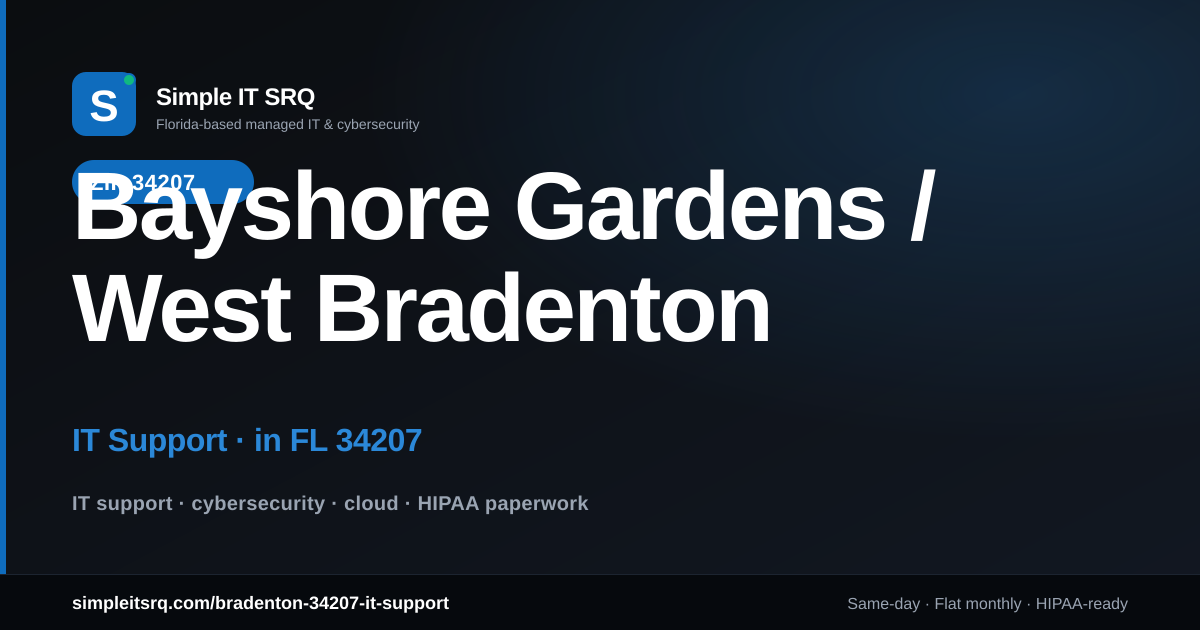
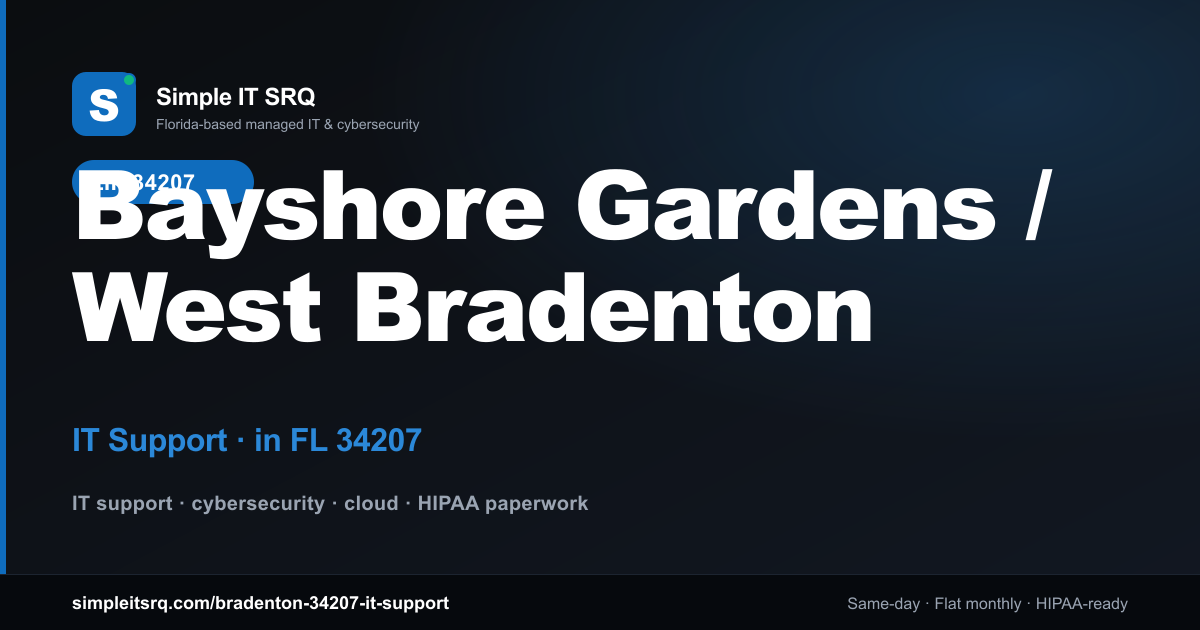
fix(csp): allow 'unsafe-inline' in style-src-elem for AI chat + Tawk.to styles
- Fixes CSP self-blocking: style-src-elem was missing 'unsafe-inline',
  which blocked the AIChat component's injected <style> tags and Tawk.to's
  dynamic styles, causing the chat bubble to collapse into a static element
  stuck at the bottom of the page.

- Polishes AIChat component:
  • Full dark-mode support via [data-theme="dark"] CSS overrides
  • Escape key and click-outside to close the panel
  • Focus returns to bubble button on close
  • Textarea height resets after sending a message
  • Respects prefers-reduced-motion

- Fixes 3 pre-existing lint errors (unused vars in portal.js, BlogPost.jsx,
  Book.jsx) so the build stays clean.

- Regenerates OG images as part of the standard prebuild step.

diff --git a/src/components/AIChat.jsx b/src/components/AIChat.jsx
@@ -1,4 +1,4 @@
-import { useEffect, useMemo, useRef, useState } from "react";
+import { useEffect, useMemo, useRef, useState, useCallback } from "react";
 import { Sparkles, ArrowUp, X, Mail, RotateCcw, CornerDownLeft } from "lucide-react";
 import { csrfFetch } from "../lib/csrf";
 
@@ -165,6 +165,8 @@ export default function AIChat() {
   const [emailValue, setEmailValue] = useState("");
   const scrollRef = useRef(null);
   const inputRef = useRef(null);
+  const panelRef = useRef(null);
+  const bubbleRef = useRef(null);
 
   useEffect(() => { saveHistory(messages); }, [messages]);
 
@@ -181,6 +183,37 @@ export default function AIChat() {
     }
   }, [open, emailMode]);
 
+  // Keyboard / click-outside handlers.
+  useEffect(() => {
+    if (!open) return;
+
+    function onKeyDown(e) {
+      if (e.key === "Escape") {
+        setOpen(false);
+      }
+    }
+
+    function onPointerDown(e) {
+      if (panelRef.current && !panelRef.current.contains(e.target)) {
+        setOpen(false);
+      }
+    }
+
+    document.addEventListener("keydown", onKeyDown);
+    document.addEventListener("pointerdown", onPointerDown);
+    return () => {
+      document.removeEventListener("keydown", onKeyDown);
+      document.removeEventListener("pointerdown", onPointerDown);
+    };
+  }, [open]);
+
+  // Return focus to bubble when closing.
+  useEffect(() => {
+    if (!open && bubbleRef.current) {
+      bubbleRef.current.focus();
+    }
+  }, [open]);
+
   // Auto-grow textarea up to ~6 lines (144px).
   useEffect(() => {
     const el = inputRef.current;
@@ -196,6 +229,12 @@ export default function AIChat() {
     setMessages(next);
     setInput("");
     setBusy(true);
+
+    // Reset textarea height.
+    if (inputRef.current) {
+      inputRef.current.style.height = "auto";
+    }
+
     try {
       const res = await csrfFetch("/api/contact", {
         method: "POST",
@@ -255,12 +294,12 @@ export default function AIChat() {
     try { sessionStorage.removeItem(STORAGE_KEY); } catch { /* ignore */ }
   }
 
-  const onKeyDown = (e) => {
+  const onKeyDown = useCallback((e) => {
     if (e.key === "Enter" && !e.shiftKey) {
       e.preventDefault();
       send();
     }
-  };
+  }, [input, busy, messages]);
 
   // Pre-compute rendered HTML for assistant messages so we don't re-parse on
   // every keystroke (typing in the composer triggers a re-render).
@@ -280,6 +319,7 @@ export default function AIChat() {
 
       {!open && (
         <button
+          ref={bubbleRef}
           type="button"
           onClick={() => setOpen(true)}
           aria-label="Open AI assistant"
@@ -290,7 +330,7 @@ export default function AIChat() {
       )}
 
       {open && (
-        <div role="dialog" aria-label="AI assistant" className="aic-panel">
+        <div ref={panelRef} role="dialog" aria-label="AI assistant" className="aic-panel">
           <header className="aic-header">
             <div className="aic-title">
               <span className="aic-dot" aria-hidden="true" />
@@ -453,6 +493,11 @@ const AIC_CSS = `
   transition: transform .15s ease, box-shadow .15s ease;
 }
 .aic-bubble:hover { transform: translateY(-2px); box-shadow: 0 12px 28px rgba(0,0,0,0.22); }
+[data-theme="dark"] .aic-bubble {
+  background: var(--surface-2, #1C1F26); color: var(--text-1, #F4F5F7); border-color: var(--border, #2A2F38);
+  box-shadow: 0 8px 22px rgba(0,0,0,0.35), 0 1px 2px rgba(0,0,0,0.20);
+}
+[data-theme="dark"] .aic-bubble:hover { box-shadow: 0 12px 28px rgba(0,0,0,0.45); }
 
 .aic-panel {
   position: fixed; left: 20px; bottom: var(--aic-bottom-offset); z-index: 999998;
@@ -466,6 +511,12 @@ const AIC_CSS = `
   font-family: -apple-system, BlinkMacSystemFont, "Segoe UI", "Inter", system-ui, sans-serif;
   color: #2f3437;
 }
+[data-theme="dark"] .aic-panel {
+  background: var(--surface, #14171C);
+  border-color: var(--border, #2A2F38);
+  color: var(--text-2, #9AA0A6);
+  box-shadow: 0 30px 60px rgba(0,0,0,0.45), 0 2px 6px rgba(0,0,0,0.25);
+}
 
 .aic-header {
   display: flex; align-items: center; justify-content: space-between;
@@ -474,6 +525,11 @@ const AIC_CSS = `
   background: rgba(250,249,246,0.85);
   backdrop-filter: saturate(180%) blur(6px);
 }
+[data-theme="dark"] .aic-header {
+  background: rgba(20,23,28,0.85);
+  border-color: var(--border, #2A2F38);
+}
+
 .aic-title { display: flex; align-items: center; gap: 8px; font-size: 0.86rem; }
 .aic-dot {
   width: 7px; height: 7px; border-radius: 50%;
@@ -481,7 +537,9 @@ const AIC_CSS = `
   box-shadow: 0 0 0 3px rgba(22,163,74,0.15);
 }
 .aic-title-text { font-weight: 600; color: #1f2328; letter-spacing: -0.01em; }
+[data-theme="dark"] .aic-title-text { color: var(--text-1, #F4F5F7); }
 .aic-subtitle { color: #8a8f98; font-size: 0.78rem; font-weight: 400; }
+[data-theme="dark"] .aic-subtitle { color: var(--text-3, #6B7280); }
 .aic-actions { display: flex; gap: 2px; }
 .aic-icon-btn {
   width: 28px; height: 28px; border-radius: 6px;
@@ -489,13 +547,17 @@ const AIC_CSS = `
   display: grid; place-items: center; transition: background .12s ease, color .12s ease;
 }
 .aic-icon-btn:hover { background: rgba(15,15,15,0.06); color: #1f2328; }
+[data-theme="dark"] .aic-icon-btn { color: var(--text-3, #6B7280); }
+[data-theme="dark"] .aic-icon-btn:hover { background: rgba(255,255,255,0.06); color: var(--text-1, #F4F5F7); }
 
 .aic-doc {
   flex: 1; overflow-y: auto;
   scrollbar-width: thin; scrollbar-color: rgba(15,15,15,0.18) transparent;
 }
+[data-theme="dark"] .aic-doc { scrollbar-color: rgba(255,255,255,0.12) transparent; }
 .aic-doc::-webkit-scrollbar { width: 8px; }
 .aic-doc::-webkit-scrollbar-thumb { background: rgba(15,15,15,0.18); border-radius: 4px; }
+[data-theme="dark"] .aic-doc::-webkit-scrollbar-thumb { background: rgba(255,255,255,0.12); }
 .aic-doc-inner { padding: 6px 0 14px; }
 
 .aic-block {
@@ -504,6 +566,7 @@ const AIC_CSS = `
 }
 .aic-block:last-child { border-bottom: none; }
 .aic-block-user { background: rgba(15,15,15,0.025); }
+[data-theme="dark"] .aic-block-user { background: rgba(255,255,255,0.03); }
 .aic-block-asst { background: transparent; }
 
 .aic-role {
@@ -511,11 +574,14 @@ const AIC_CSS = `
   text-transform: uppercase; letter-spacing: 0.08em;
   color: #8a8f98; margin-bottom: 4px;
 }
+[data-theme="dark"] .aic-role { color: var(--text-3, #6B7280); }
 .aic-user-content {
   font-size: 0.92rem; line-height: 1.55; color: #1f2328;
   white-space: pre-wrap; word-break: break-word;
 }
+[data-theme="dark"] .aic-user-content { color: var(--text-1, #F4F5F7); }
 .aic-asst-content { font-size: 0.92rem; line-height: 1.6; color: #2f3437; }
+[data-theme="dark"] .aic-asst-content { color: var(--text-2, #9AA0A6); }
 .aic-asst-content > *:first-child { margin-top: 0; }
 .aic-asst-content > *:last-child { margin-bottom: 0; }
 
@@ -527,12 +593,21 @@ const AIC_CSS = `
   border-left: 3px solid #c9c4b8; color: #4b5057; font-style: italic;
   background: rgba(15,15,15,0.02);
 }
+[data-theme="dark"] .aic-quote {
+  border-left-color: var(--border-strong, #3A404A);
+  color: var(--text-2, #9AA0A6);
+  background: rgba(255,255,255,0.03);
+}
 .aic-code {
   font-family: "SF Mono", "JetBrains Mono", ui-monospace, "Cascadia Code", Menlo, monospace;
   font-size: 0.85em;
   background: rgba(135, 131, 120, 0.15);
   color: #b03d4d;
   padding: 1px 5px; border-radius: 4px;
+}
+[data-theme="dark"] .aic-code {
+  background: rgba(255,255,255,0.10);
+  color: #ff8a98;
 }
 .aic-pre {
   font-family: "SF Mono", "JetBrains Mono", ui-monospace, Menlo, monospace;
@@ -544,6 +619,8 @@ const AIC_CSS = `
 .aic-pre code { background: transparent; color: inherit; padding: 0; }
 .aic-link { color: #2f3437; text-decoration: underline; text-decoration-color: rgba(47,52,55,0.35); text-underline-offset: 2px; }
 .aic-link:hover { text-decoration-color: #2f3437; }
+[data-theme="dark"] .aic-link { color: var(--brand, #4DA3E8); text-decoration-color: rgba(77,163,232,0.45); }
+[data-theme="dark"] .aic-link:hover { text-decoration-color: var(--brand-hover, #6FB6F0); }
 
 .aic-callout {
   display: flex; align-items: center; gap: 12px;
@@ -555,11 +632,22 @@ const AIC_CSS = `
   transition: background .12s ease, border-color .12s ease;
 }
 .aic-callout:hover { background: #fff5e0; border-color: rgba(203, 145, 47, 0.45); }
+[data-theme="dark"] .aic-callout {
+  background: rgba(203, 145, 47, 0.10);
+  border-color: rgba(203, 145, 47, 0.30);
+}
+[data-theme="dark"] .aic-callout:hover {
+  background: rgba(203, 145, 47, 0.15);
+  border-color: rgba(203, 145, 47, 0.45);
+}
 .aic-callout-emoji { font-size: 1.1rem; }
 .aic-callout-body { display: flex; flex-direction: column; flex: 1; min-width: 0; }
 .aic-callout-title { font-weight: 600; font-size: 0.88rem; color: #1f2328; }
+[data-theme="dark"] .aic-callout-title { color: var(--text-1, #F4F5F7); }
 .aic-callout-sub { font-size: 0.74rem; color: #8a8f98; }
+[data-theme="dark"] .aic-callout-sub { color: var(--text-3, #6B7280); }
 .aic-callout-arrow { color: #8a8f98; font-size: 1rem; }
+[data-theme="dark"] .aic-callout-arrow { color: var(--text-3, #6B7280); }
 
 .aic-typing { display: inline-flex; gap: 4px; padding: 4px 0; }
 .aic-typing span {
@@ -572,6 +660,10 @@ const AIC_CSS = `
   0%, 80%, 100% { opacity: 0.25; transform: translateY(0); }
   40% { opacity: 1; transform: translateY(-2px); }
 }
+@media (prefers-reduced-motion: reduce) {
+  .aic-typing span { animation: none; opacity: 0.6; }
+  .aic-bubble { transition: none; }
+}
 
 .aic-email-row {
   display: flex; align-items: center; gap: 6px;
@@ -579,30 +671,51 @@ const AIC_CSS = `
   border-top: 1px solid rgba(15,15,15,0.06);
   background: #fffaf0;
 }
+[data-theme="dark"] .aic-email-row {
+  background: rgba(203, 145, 47, 0.08);
+  border-color: var(--border, #2A2F38);
+}
 .aic-email-icon { color: #8a8f98; flex-shrink: 0; }
+[data-theme="dark"] .aic-email-icon { color: var(--text-3, #6B7280); }
 .aic-email-input {
   flex: 1; padding: 6px 8px; border: 1px solid rgba(15,15,15,0.10);
   border-radius: 6px; font-size: 0.86rem; background: #fff;
   font-family: inherit; outline: none; color: #1f2328;
 }
 .aic-email-input:focus { border-color: #1f2328; }
+[data-theme="dark"] .aic-email-input {
+  background: var(--surface-2, #1C1F26);
+  border-color: var(--border, #2A2F38);
+  color: var(--text-1, #F4F5F7);
+}
+[data-theme="dark"] .aic-email-input:focus { border-color: var(--brand, #4DA3E8); }
 .aic-email-send {
   padding: 6px 12px; border: none; border-radius: 6px;
   background: #1f1f1f; color: #faf9f6; font-size: 0.82rem; font-weight: 500;
   cursor: pointer; font-family: inherit;
 }
 .aic-email-send:hover { background: #000; }
+[data-theme="dark"] .aic-email-send {
+  background: var(--brand, #4DA3E8); color: #fff;
+}
+[data-theme="dark"] .aic-email-send:hover { background: var(--brand-hover, #6FB6F0); }
 .aic-email-cancel {
   width: 26px; height: 26px; border: none; background: transparent;
   color: #8a8f98; cursor: pointer; border-radius: 4px;
   display: grid; place-items: center;
 }
 .aic-email-cancel:hover { background: rgba(15,15,15,0.06); color: #1f2328; }
+[data-theme="dark"] .aic-email-cancel { color: var(--text-3, #6B7280); }
+[data-theme="dark"] .aic-email-cancel:hover { background: rgba(255,255,255,0.06); color: var(--text-1, #F4F5F7); }
 
 .aic-composer {
   border-top: 1px solid rgba(15,15,15,0.06);
   background: #faf9f6;
   padding: 8px 12px 10px;
+}
+[data-theme="dark"] .aic-composer {
+  background: var(--surface, #14171C);
+  border-color: var(--border, #2A2F38);
 }
 .aic-textarea {
   width: 100%; resize: none;
@@ -614,11 +727,14 @@ const AIC_CSS = `
   overflow-y: auto;
 }
 .aic-textarea::placeholder { color: #b1b5bc; }
+[data-theme="dark"] .aic-textarea { color: var(--text-1, #F4F5F7); }
+[data-theme="dark"] .aic-textarea::placeholder { color: var(--text-3, #6B7280); }
 .aic-composer-bar {
   display: flex; align-items: center; justify-content: space-between;
   margin-top: 4px;
 }
 .aic-hint { font-size: 0.7rem; color: #9aa0a6; }
+[data-theme="dark"] .aic-hint { color: var(--text-3, #6B7280); }
 .aic-hint kbd {
   font-family: "SF Mono", ui-monospace, Menlo, monospace;
   font-size: 0.68rem;
@@ -626,6 +742,11 @@ const AIC_CSS = `
   border: 1px solid rgba(15,15,15,0.08);
   border-radius: 3px; padding: 0 4px; margin: 0 1px;
   color: #4b5057;
+}
+[data-theme="dark"] .aic-hint kbd {
+  background: rgba(255,255,255,0.06);
+  border-color: rgba(255,255,255,0.08);
+  color: var(--text-2, #9AA0A6);
 }
 .aic-send {
   width: 30px; height: 30px; border-radius: 8px;
@@ -636,6 +757,11 @@ const AIC_CSS = `
 .aic-send:hover:not(:disabled) { background: #000; }
 .aic-send:active:not(:disabled) { transform: scale(0.96); }
 .aic-send:disabled { background: #d6d3cc; cursor: not-allowed; }
+[data-theme="dark"] .aic-send {
+  background: var(--brand, #4DA3E8); color: #fff;
+}
+[data-theme="dark"] .aic-send:hover:not(:disabled) { background: var(--brand-hover, #6FB6F0); }
+[data-theme="dark"] .aic-send:disabled { background: var(--surface-3, #232830); cursor: not-allowed; }
 
 @media (max-width: 520px) {
   /* High-density mobile mode: smaller bubble + panel, tighter padding,

diff --git a/middleware.js b/middleware.js
@@ -108,7 +108,7 @@ function buildCsp(nonce) {
     // index.html can ship without falling back to dynamic JS injection.
     "script-src 'self' 'inline-speculation-rules' 'sha256-s73Ww6tYLJKgSSJJXa6U6kUJkLc849Yhy8mrH2QxT8I=' https://va.vercel-scripts.com https://challenges.cloudflare.com https://vercel.live https://app.cal.com https://embed.cal.com https://www.googletagmanager.com https://pagead2.googlesyndication.com https://adservice.google.com https://www.googleadservices.com https://tpc.googlesyndication.com https://googleads.g.doubleclick.net https://embed.tawk.to https://*.tawk.to https://www.clarity.ms https://www.google.com https://*.adtrafficquality.google",
     `style-src 'self' 'unsafe-inline' ${nonceSrc} https://vercel.live https://app.cal.com https://pagead2.googlesyndication.com`,
-    `style-src-elem 'self' ${nonceSrc} https://vercel.live https://app.cal.com https://pagead2.googlesyndication.com https://fonts.googleapis.com`,
+    `style-src-elem 'self' 'unsafe-inline' ${nonceSrc} https://vercel.live https://app.cal.com https://pagead2.googlesyndication.com https://fonts.googleapis.com`,
     "style-src-attr 'unsafe-inline'",
     "font-src 'self' data: https://vercel.live https://assets.vercel.com https://fonts.gstatic.com",
     "img-src 'self' data: https://vercel.live https://vercel.com https://cal.com https://app.cal.com https://www.google-analytics.com https://www.googletagmanager.com https://lh3.googleusercontent.com https://avatars.githubusercontent.com https://pagead2.googlesyndication.com https://googleads.g.doubleclick.net https://www.google.com https://tpc.googlesyndication.com https://*.tawk.to https://*.googleusercontent.com https://*.adtrafficquality.google https://c.clarity.ms",

diff --git a/api/portal.js b/api/portal.js
@@ -274,7 +274,7 @@ async function handleAdminStatus(session) {
 
   // Detect schema state of migration 014 columns (informational so the
   // agent can decide whether to run run-audit-migration).
-  let schema014 = null;
+  let schema014;
   try {
     const r = await sql`
       SELECT
@@ -2049,7 +2049,7 @@ async function handleRunAuditMigration(session) {
   if (failedSteps.length > 0) {
     // Surface details in Vercel runtime logs for post-hoc debugging since
     // the admin UI's pre-block can be hard to read on small screens.
-    // eslint-disable-next-line no-console
+     
     console.error("[run-audit-migration] failed steps:", JSON.stringify(failedSteps));
   }
   return json(allOk ? 200 : 500, {

diff --git a/src/pages/Book.jsx b/src/pages/Book.jsx
@@ -384,7 +384,6 @@ function BookPromoBanner() {
 
   if (!params.promo && !params.topic.startsWith("leadgen")) return null;
 
-  const isLeadgen = params.topic.startsWith("leadgen");
   const tier =
     params.topic === "leadgen-starter"     ? "Starter" :
     params.topic === "leadgen-growth"      ? "Growth" :

diff --git a/src/pages/BlogPost.jsx b/src/pages/BlogPost.jsx
@@ -293,7 +293,7 @@ export default function BlogPost() {
     return () => { cancelled = true; };
   }, [slug, isMdx]);
 
-  const seo = useSEO(
+  useSEO(
     post
       ? {
           title: `${post.title} | Simple IT SRQ`,
